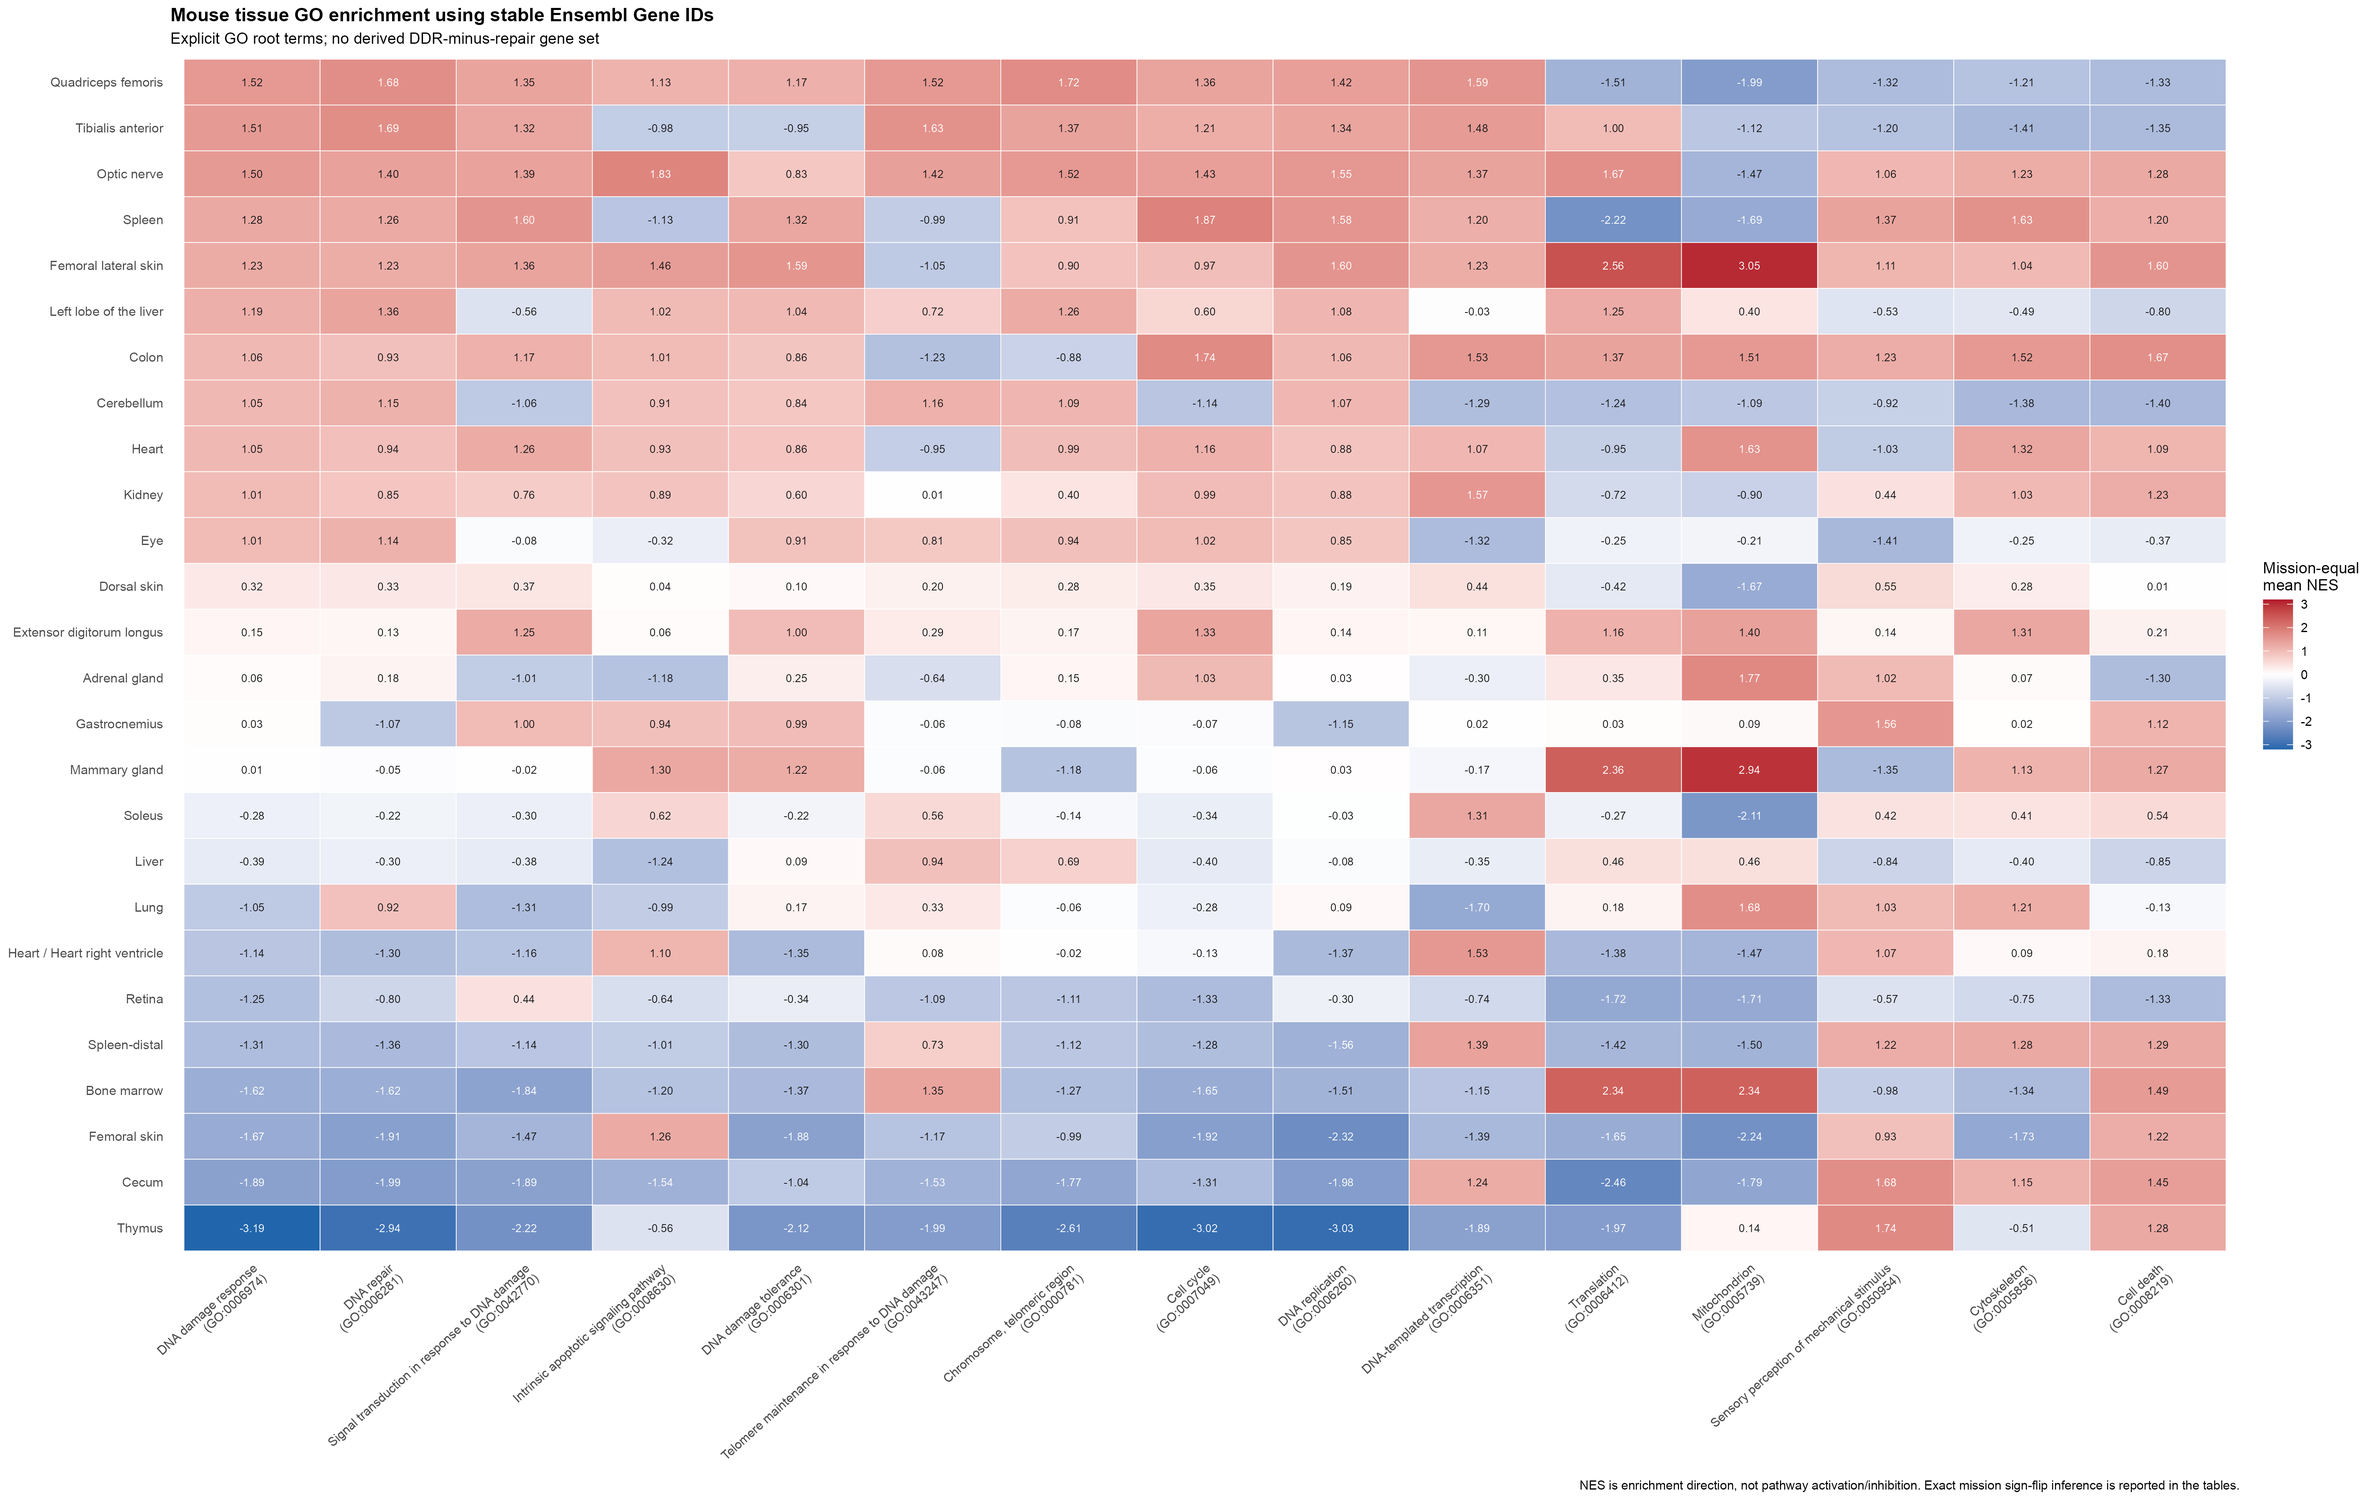
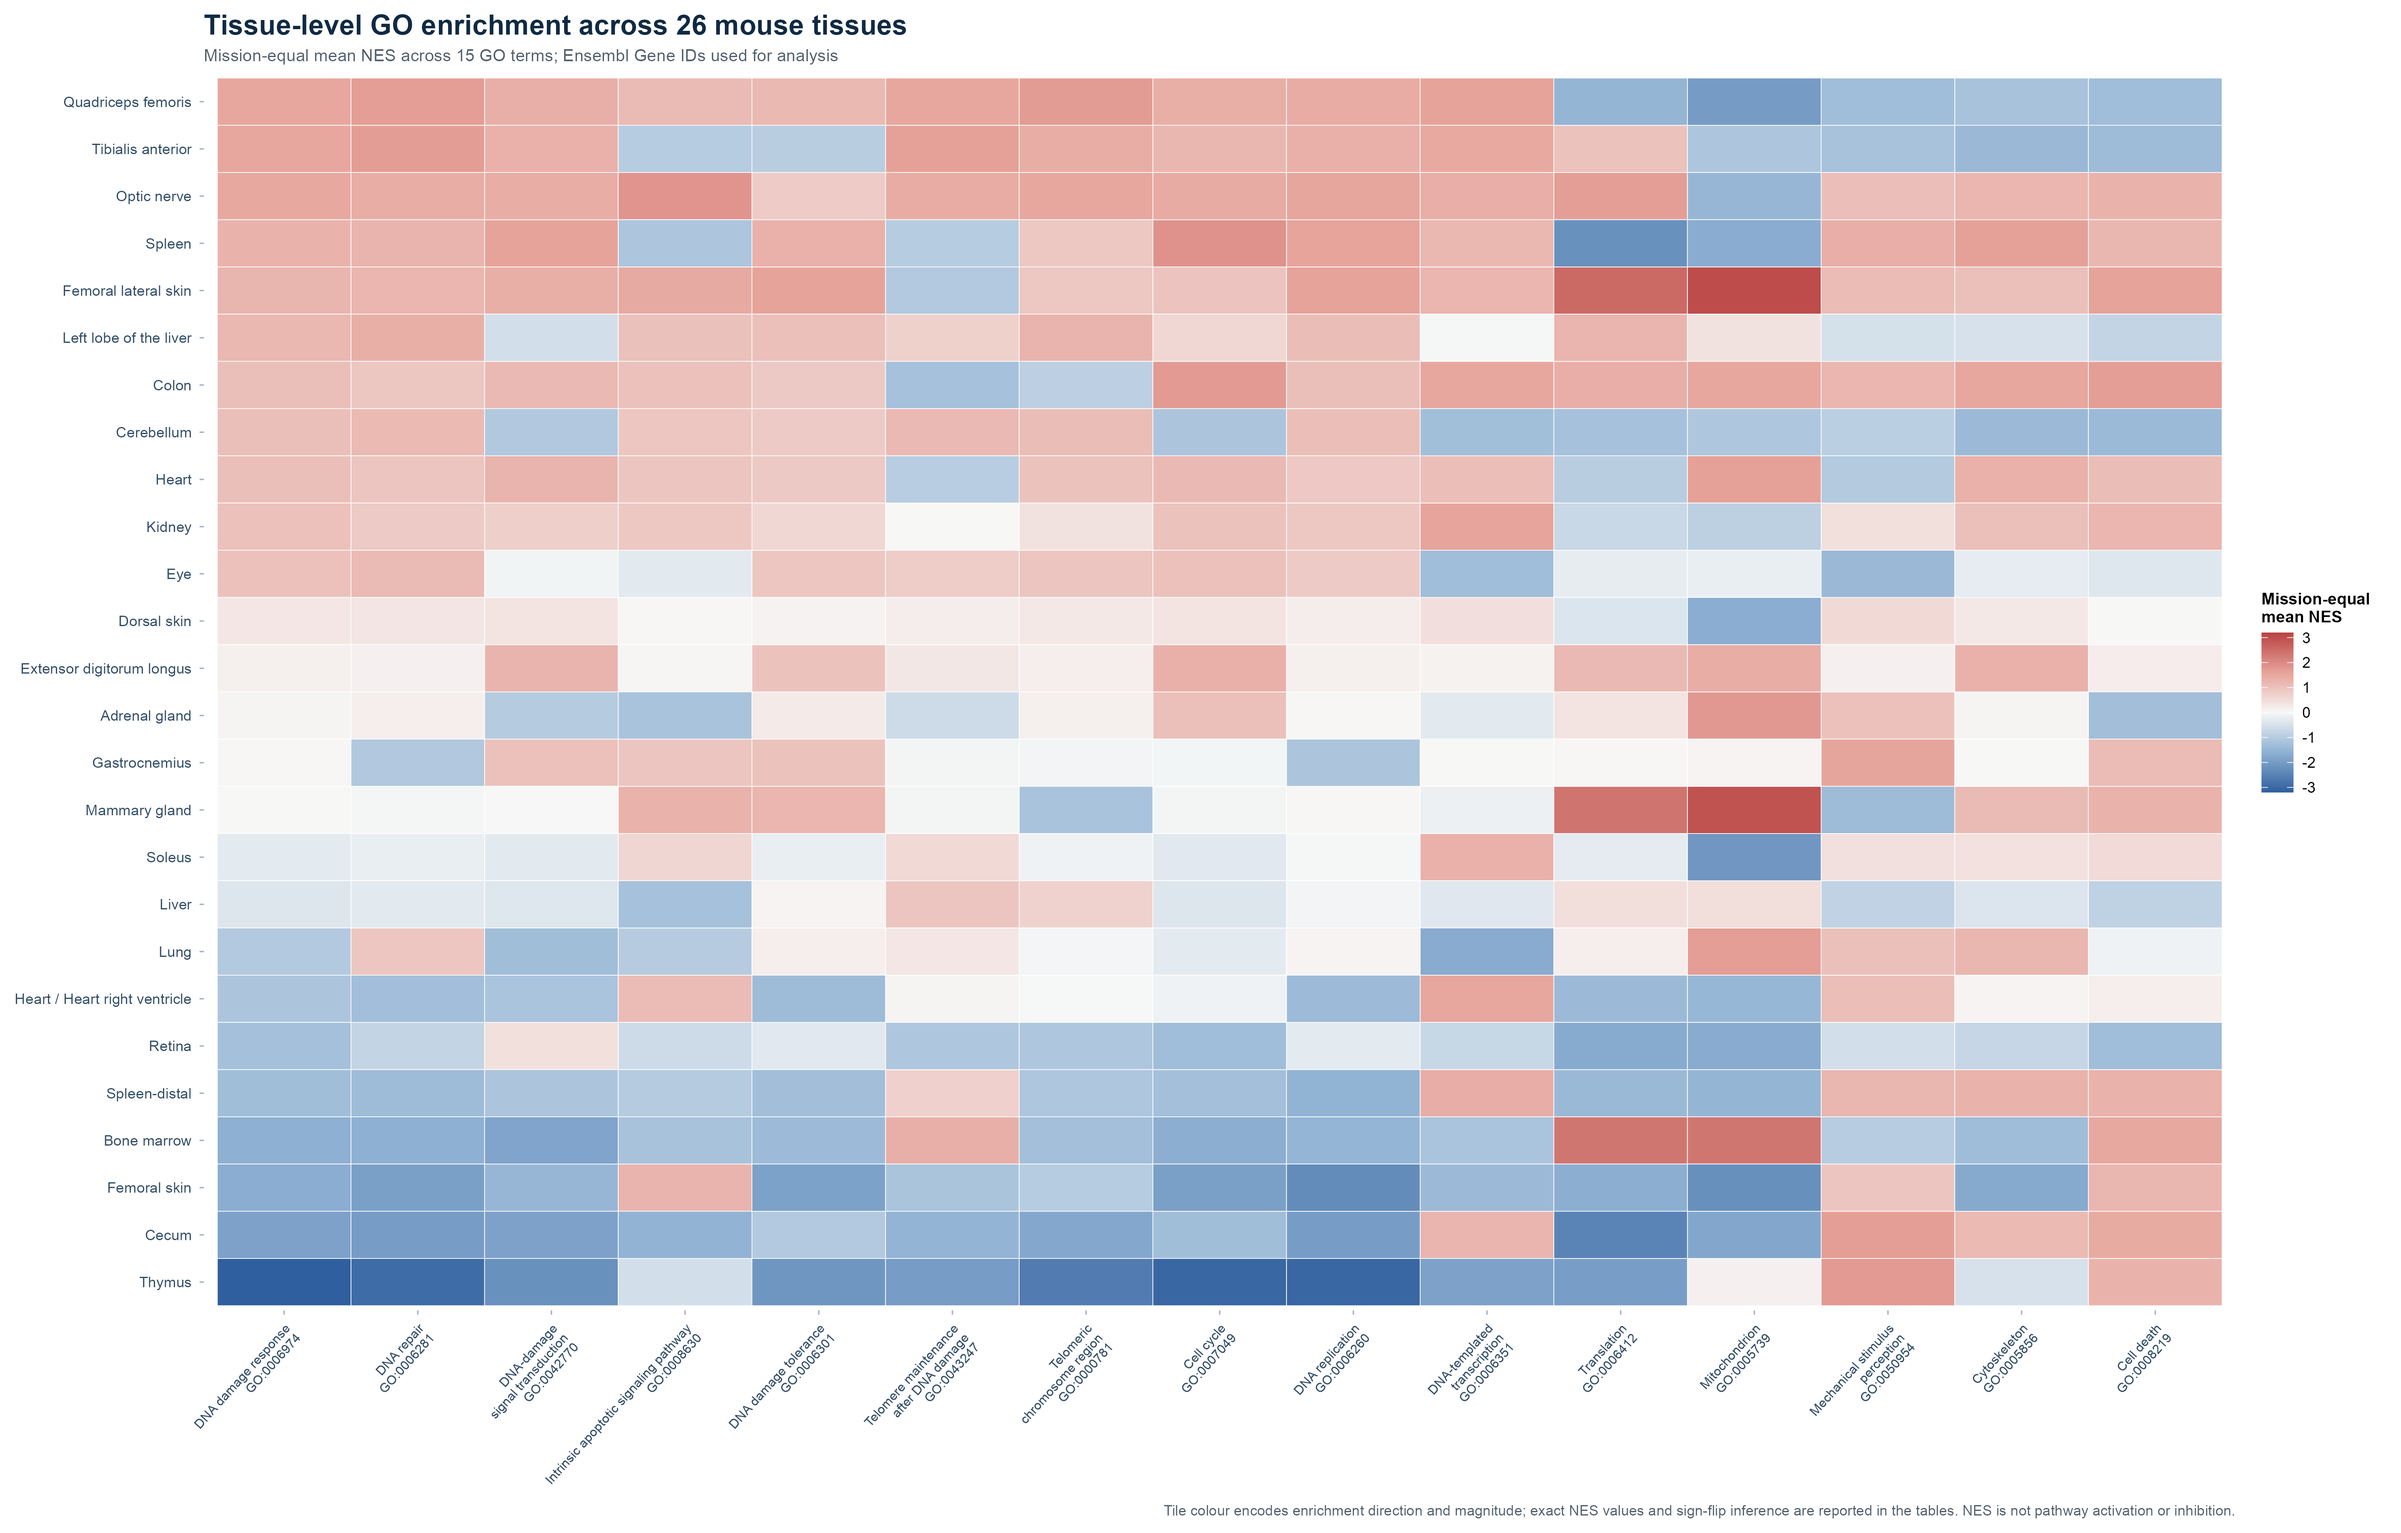
Update Figure 1 heatmap for teacher presentation

Changed region(s): [[0.0, 0.0, 0.9993, 0.9333], [0.6558, 0.9644, 0.9368, 0.9956], [0.0312, 0.4044, 0.0625, 0.5289]]

diff --git a/README.md b/README.md
@@ -50,6 +50,10 @@ Rscript workflow/run_style_A.R results_style_A_rebuilt
 
 Style A keeps the same plotting inputs, filters, ordering, membership counts and numeric matrices while applying a consistent publication palette, typography, spacing and high-resolution export. It writes the same 44-file set to the chosen output directory, never overwrites `results/`, and ends with `STYLE_A_CONTRACT_PASS`.
 
+## Figure 1 display convention
+
+The checked-in `Main/Fig_1.png` follows the teacher-requested heatmap presentation: the frozen 26 × 15 matrix is unchanged, in-cell NES numbers and the decorative top bar are omitted, and a fine continuous blue–white–red scale carries the value detail. Exact NES values remain in the publication tables. Figure 2 is the explicit exception and keeps its Spearman numbers.
+
 ## Analysis conventions retained in this release
 
 - Ensembl gene IDs are the analysis keys. Gene symbols are retained only as display labels.
